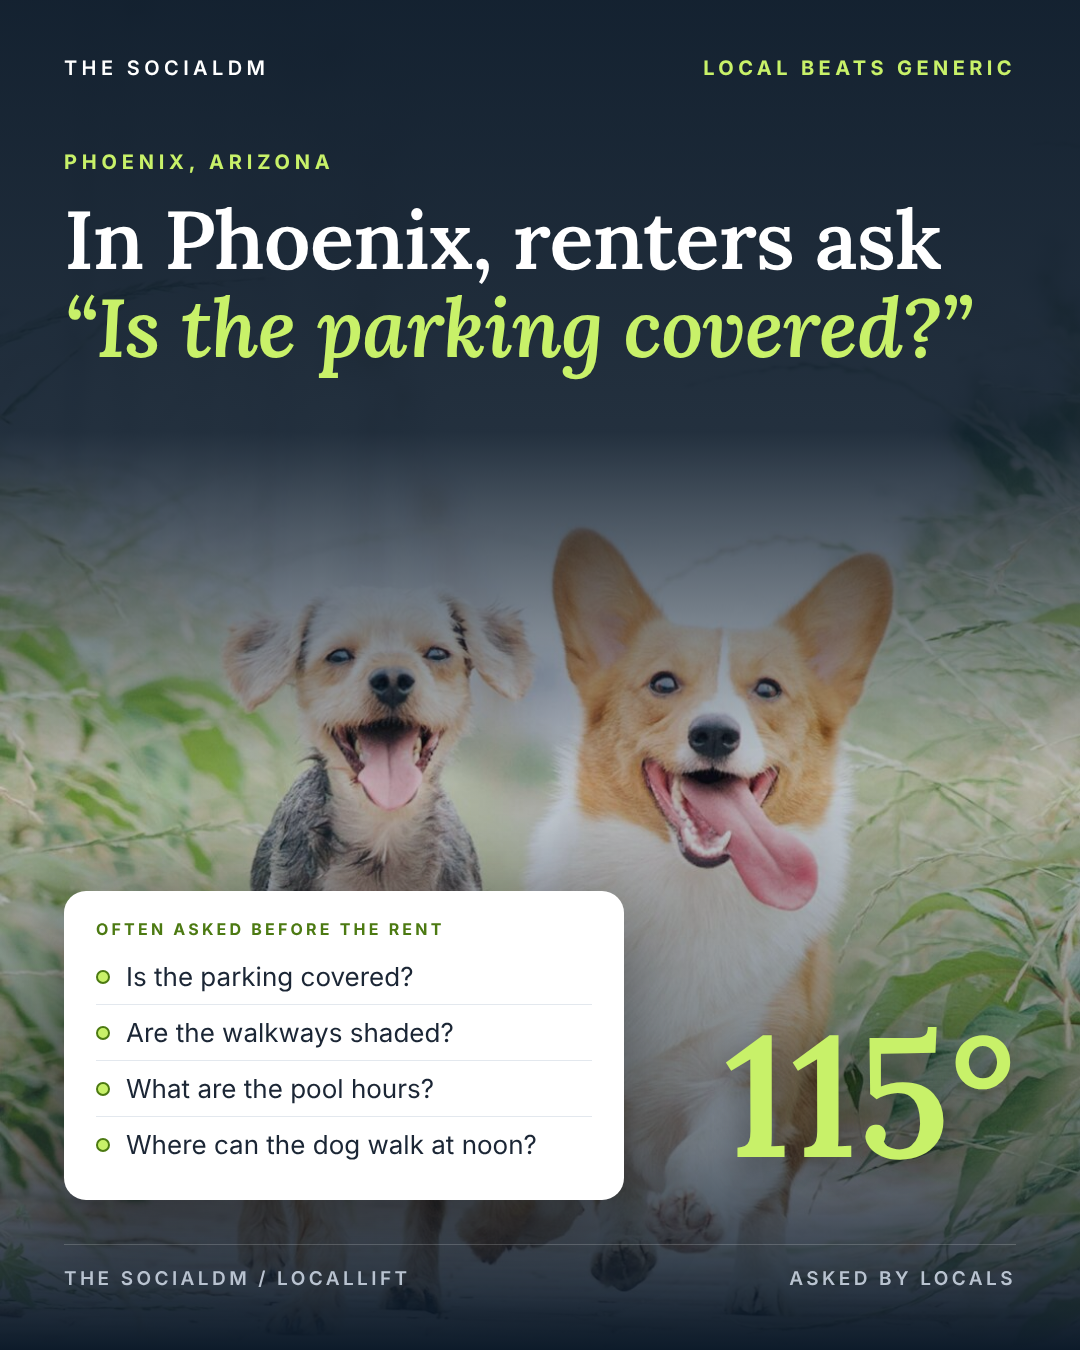
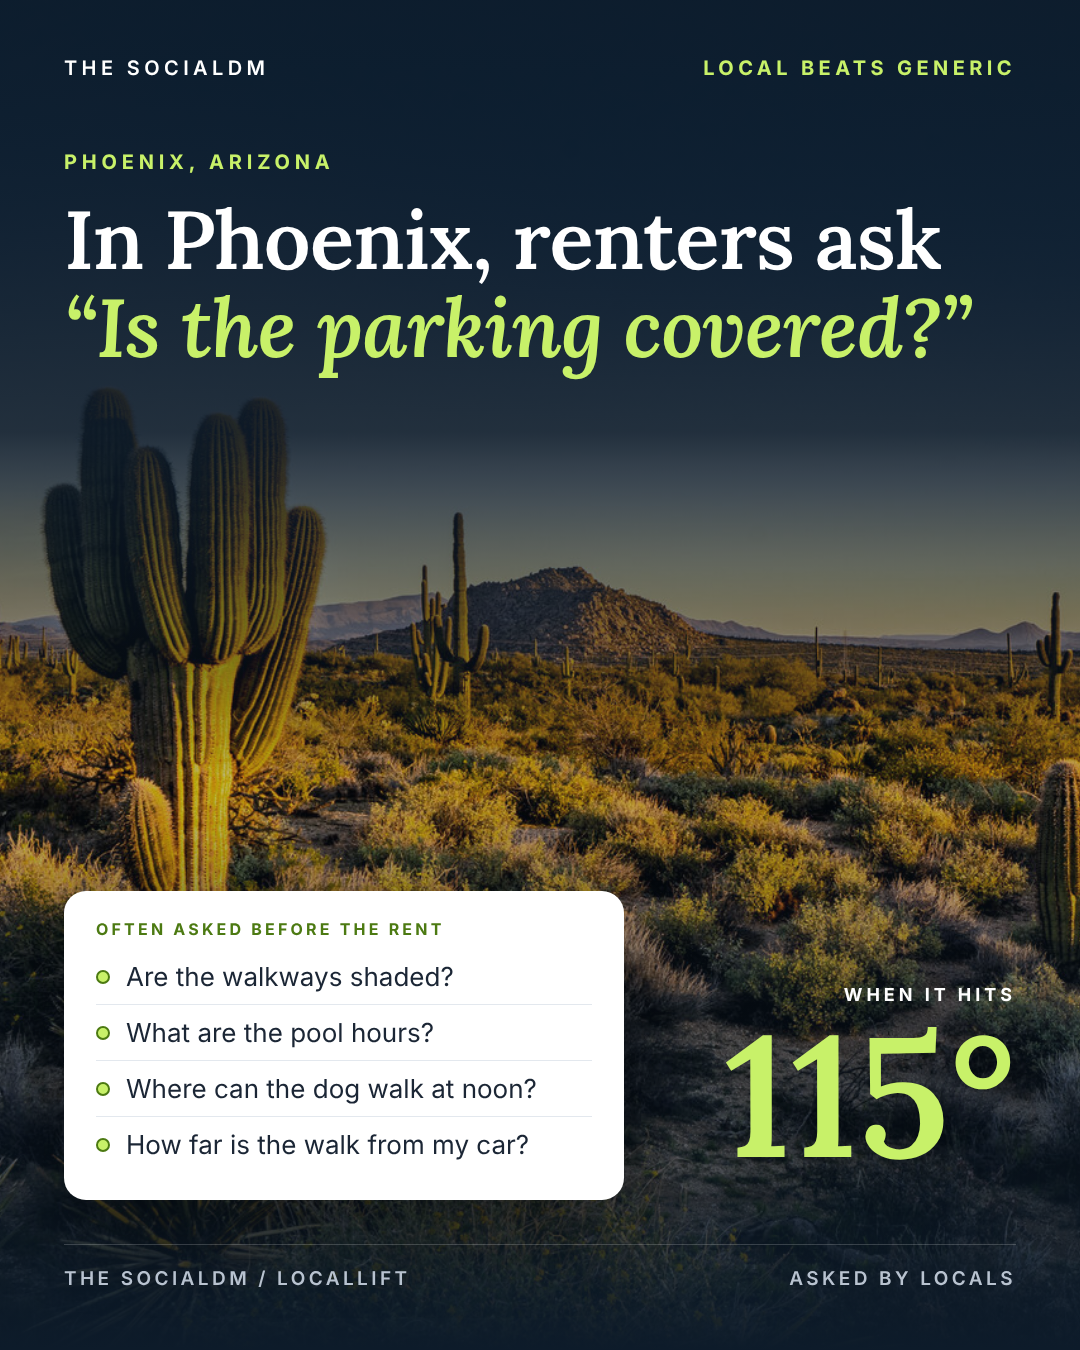
Phoenix graphic: desert photo, editor fixes
Claude-Session: https://claude.ai/code/session_01YH4E6PFHZxetYmR2SR5Gd1

diff --git a/social/socialdm-instagram/2026-10-wk43-v3/src/p2.html b/social/socialdm-instagram/2026-10-wk43-v3/src/p2.html
@@ -1,8 +1,8 @@
-<html><head><meta charset=utf-8><link rel=stylesheet href=common.css><style>.bg{background-image:url(p2.jpg);background-position:center 70%} .sh{position:absolute;inset:0;background:linear-gradient(180deg,rgba(13,27,42,.97) 0%,rgba(13,27,42,.9) 32%,rgba(13,27,42,.2) 58%,rgba(13,27,42,.55) 85%,#0D1B2A 100%)}
-.deg{position:absolute;right:64px;bottom:170px;font-family:'Lora';font-weight:600;font-size:170px;line-height:1;color:#C8F169;text-shadow:0 10px 40px rgba(0,0,0,.5)}
+<html><head><meta charset=utf-8><link rel=stylesheet href=common.css><style>.bg{background-image:url(p2.jpg);background-position:center 60%} .sh{position:absolute;inset:0;background:linear-gradient(180deg,rgba(13,27,42,.97) 0%,rgba(13,27,42,.9) 32%,rgba(13,27,42,.2) 58%,rgba(13,27,42,.55) 85%,#0D1B2A 100%)}
+.deg small{display:block;font-family:'Inter';font-size:18px;letter-spacing:.22em;font-weight:700;color:#fff;text-shadow:none;margin-bottom:6px;text-align:right} .deg{position:absolute;right:64px;bottom:170px;text-align:right;font-family:'Lora';font-weight:600;font-size:170px;line-height:1;color:#C8F169;text-shadow:0 10px 40px rgba(0,0,0,.5)}
 .head{position:absolute;left:64px;right:64px;top:150px} h1{font-size:82px}
 .card{position:absolute;left:64px;width:560px;bottom:150px;background:#fff;color:#1B2635;border-radius:22px;padding:28px 32px;box-shadow:0 30px 80px rgba(0,0,0,.45)}
 .card .l{font-size:16px;letter-spacing:.2em;font-weight:700;color:#4C7A12;margin-bottom:10px}
 .card .r{display:flex;align-items:center;gap:16px;font-size:26px;padding:12px 0;border-bottom:1.5px solid #E3E8EE} .card .r:last-child{border-bottom:0}
-.card .r i{width:14px;height:14px;border-radius:50%;background:#C8F169;border:2px solid #4C7A12;flex:none}</style></head><body><div class=bg></div><div class=sh></div><div class=top><span>THE SOCIALDM</span><b>LOCAL BEATS GENERIC</b></div><div class=deg>115°</div><div class=head><div class=kick>PHOENIX, ARIZONA</div><h1>In Phoenix, renters ask <i>“Is the parking covered?”</i></h1></div>
-<div class=card><div class=l>OFTEN ASKED BEFORE THE RENT</div><div class=r><i></i>Is the parking covered?</div><div class=r><i></i>Are the walkways shaded?</div><div class=r><i></i>What are the pool hours?</div><div class=r><i></i>Where can the dog walk at noon?</div></div><div class=foot><span>THE SOCIALDM / LOCALLIFT</span><span>ASKED BY LOCALS</span></div></body></html>
+.card .r i{width:14px;height:14px;border-radius:50%;background:#C8F169;border:2px solid #4C7A12;flex:none}</style></head><body><div class=bg></div><div class=sh></div><div class=top><span>THE SOCIALDM</span><b>LOCAL BEATS GENERIC</b></div><div class=deg><small>WHEN IT HITS</small>115°</div><div class=head><div class=kick>PHOENIX, ARIZONA</div><h1>In Phoenix, renters ask <i>“Is the parking covered?”</i></h1></div>
+<div class=card><div class=l>OFTEN ASKED BEFORE THE RENT</div><div class=r><i></i>Are the walkways shaded?</div><div class=r><i></i>What are the pool hours?</div><div class=r><i></i>Where can the dog walk at noon?</div><div class=r><i></i>How far is the walk from my car?</div></div><div class=foot><span>THE SOCIALDM / LOCALLIFT</span><span>ASKED BY LOCALS</span></div></body></html>

diff --git a/social/socialdm-instagram/2026-10-wk43-v3/src/gen.py b/social/socialdm-instagram/2026-10-wk43-v3/src/gen.py
@@ -9,15 +9,15 @@ P[1]=(""".bg{background-image:url(p1.jpg);bottom:560px;background-position:cente
 .st.w{background:#fff;border-radius:24px} .st.w b{color:#0D1B2A} .st.w span{color:#33414F}""",
 "<div class=bg></div><div class=sh></div>"+top("BEHIND THE SCENES")+"""<div class=head><div class=kick>A WEEK AT THE SOCIALDM</div><h1>By the numbers. <i>The week you don't see.</i></h1></div>
 <div class=grid><div class="st w"><b>16</b><span>Google listings checked against their live websites</span></div><div class="st glass"><b>11</b><span>listings with review replies written every day</span></div><div class="st glass"><b>7</b><span>days a week of Google posts and photos</span></div><div class="st w"><b>1:1</b><span>every reply written for its own review</span></div></div>"""+foot("EDITED BEFORE IT SHIPS"))
-P[2]=(""".bg{background-image:url(p2.jpg);background-position:center 70%} .sh{position:absolute;inset:0;background:linear-gradient(180deg,rgba(13,27,42,.97) 0%,rgba(13,27,42,.9) 32%,rgba(13,27,42,.2) 58%,rgba(13,27,42,.55) 85%,#0D1B2A 100%)}
-.deg{position:absolute;right:64px;bottom:170px;font-family:'Lora';font-weight:600;font-size:170px;line-height:1;color:#C8F169;text-shadow:0 10px 40px rgba(0,0,0,.5)}
+P[2]=(""".bg{background-image:url(p2.jpg);background-position:center 60%} .sh{position:absolute;inset:0;background:linear-gradient(180deg,rgba(13,27,42,.97) 0%,rgba(13,27,42,.9) 32%,rgba(13,27,42,.2) 58%,rgba(13,27,42,.55) 85%,#0D1B2A 100%)}
+.deg small{display:block;font-family:'Inter';font-size:18px;letter-spacing:.22em;font-weight:700;color:#fff;text-shadow:none;margin-bottom:6px;text-align:right} .deg{position:absolute;right:64px;bottom:170px;text-align:right;font-family:'Lora';font-weight:600;font-size:170px;line-height:1;color:#C8F169;text-shadow:0 10px 40px rgba(0,0,0,.5)}
 .head{position:absolute;left:64px;right:64px;top:150px} h1{font-size:82px}
 .card{position:absolute;left:64px;width:560px;bottom:150px;background:#fff;color:#1B2635;border-radius:22px;padding:28px 32px;box-shadow:0 30px 80px rgba(0,0,0,.45)}
 .card .l{font-size:16px;letter-spacing:.2em;font-weight:700;color:#4C7A12;margin-bottom:10px}
 .card .r{display:flex;align-items:center;gap:16px;font-size:26px;padding:12px 0;border-bottom:1.5px solid #E3E8EE} .card .r:last-child{border-bottom:0}
 .card .r i{width:14px;height:14px;border-radius:50%;background:#C8F169;border:2px solid #4C7A12;flex:none}""",
-"<div class=bg></div><div class=sh></div>"+top("LOCAL BEATS GENERIC")+"""<div class=deg>115°</div><div class=head><div class=kick>PHOENIX, ARIZONA</div><h1>In Phoenix, renters ask <i>“Is the parking covered?”</i></h1></div>
-<div class=card><div class=l>OFTEN ASKED BEFORE THE RENT</div><div class=r><i></i>Is the parking covered?</div><div class=r><i></i>Are the walkways shaded?</div><div class=r><i></i>What are the pool hours?</div><div class=r><i></i>Where can the dog walk at noon?</div></div>"""+foot("ASKED BY LOCALS"))
+"<div class=bg></div><div class=sh></div>"+top("LOCAL BEATS GENERIC")+"""<div class=deg><small>WHEN IT HITS</small>115°</div><div class=head><div class=kick>PHOENIX, ARIZONA</div><h1>In Phoenix, renters ask <i>“Is the parking covered?”</i></h1></div>
+<div class=card><div class=l>OFTEN ASKED BEFORE THE RENT</div><div class=r><i></i>Are the walkways shaded?</div><div class=r><i></i>What are the pool hours?</div><div class=r><i></i>Where can the dog walk at noon?</div><div class=r><i></i>How far is the walk from my car?</div></div>"""+foot("ASKED BY LOCALS"))
 P[3]=(""".bg{background-image:url(p3.jpg);top:700px;background-position:center} .sh{position:absolute;left:0;right:0;top:700px;bottom:0;background:linear-gradient(180deg,#0D1B2A 0%,rgba(13,27,42,.15) 25%,rgba(13,27,42,.2) 70%,#0D1B2A 100%)}
 .head{position:absolute;left:64px;right:64px;top:150px} h1{font-size:92px}
 .opts{position:absolute;left:64px;right:64px;top:440px;display:flex;flex-direction:column;gap:18px}
